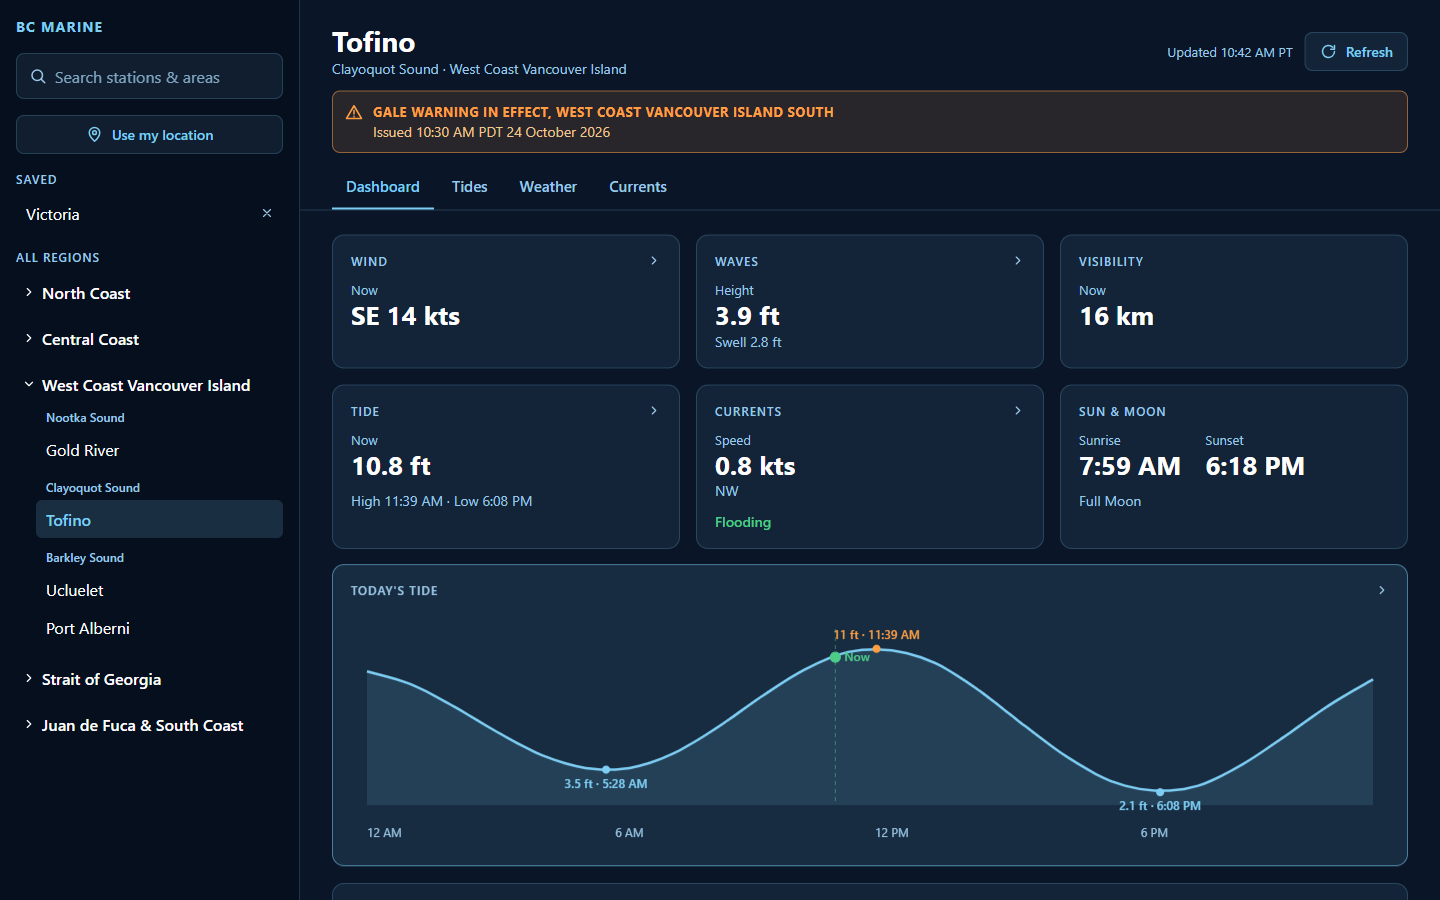
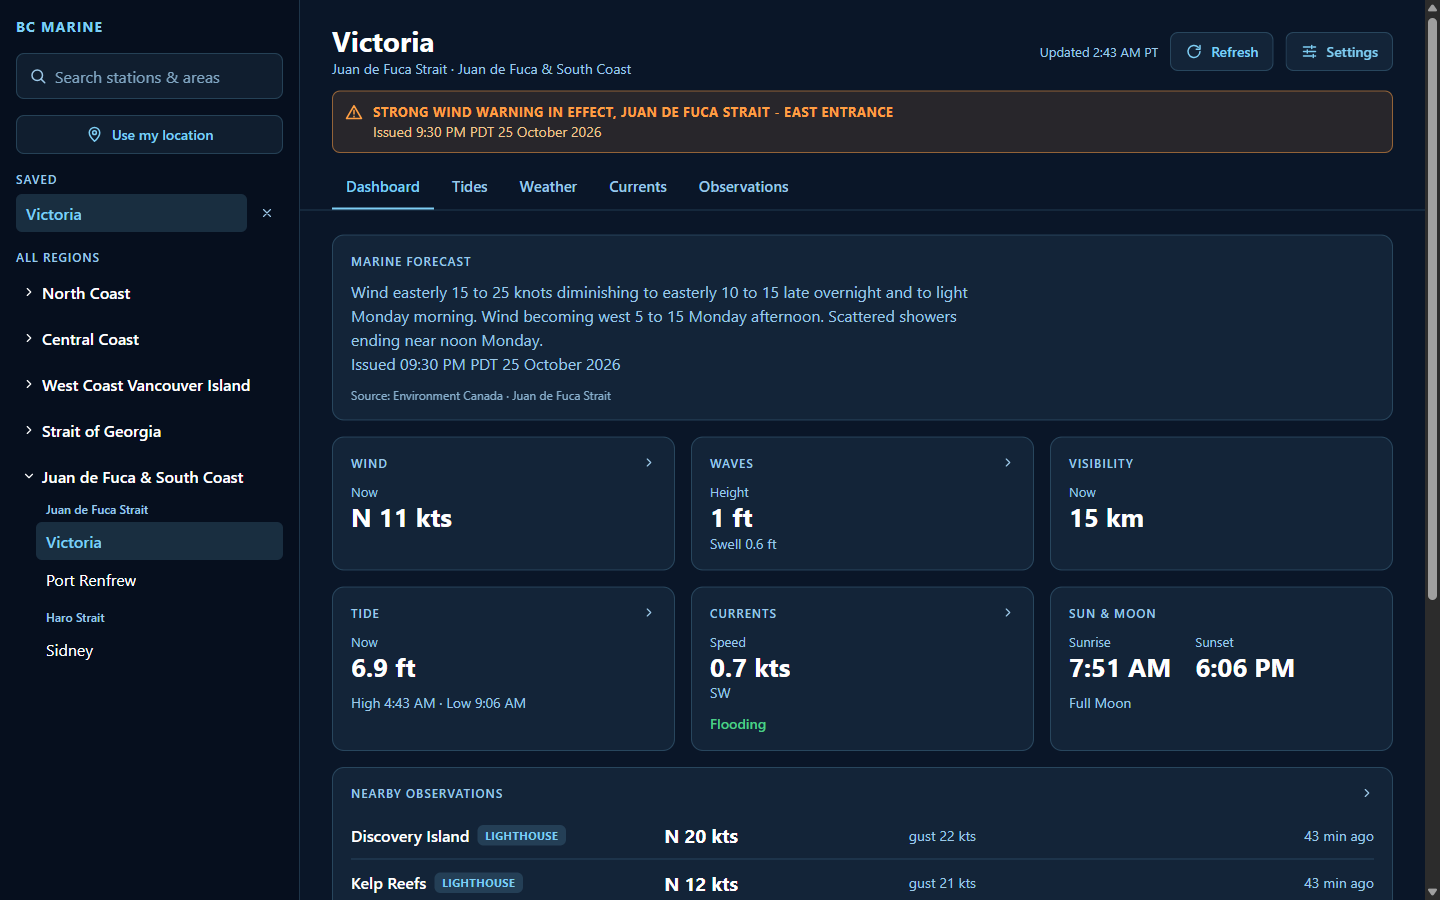
docs: fresh web screenshots and up-to-date mobile run instructions
New screenshots from the live site: desktop dark and light, a buoy page
with its 12-hour charts, and the phone browser. Mobile instructions now
cover Expo Go SDK 58, clearing the cache after pulling, tunnel mode,
precise location, and the current file layout.

diff --git a/apps/mobile/README.md b/apps/mobile/README.md
@@ -2,24 +2,43 @@
 
 Expo / React Native app for iOS and Android. It shares its data layer with the web app through [`@bc-marine/shared`](../../packages/shared).
 
-## Quick start
+## Run it on your phone
 
-1. Install the Expo Go app on your phone.
-2. From the repo root:
+1. Install **Expo Go** from the App Store or Google Play. Make sure it's up to date: this app uses **Expo SDK 58**, and an older Expo Go says the project is incompatible.
+2. Connect your phone to the same Wi-Fi as your computer.
+3. From the repo root:
 
    ```bash
    npm install
    npm start --workspace bc-marine-mobile
    ```
 
-3. Scan the QR code with Expo Go (Android) or the Camera app (iOS). If your phone is on a different network, run `npx expo start --tunnel` from this folder instead.
+4. Scan the QR code in the terminal: on Android with Expo Go's **Scan QR code**, on iPhone with the **Camera** app.
+
+### Tips
+
+- **After pulling new changes**, start with a cleared cache so the phone gets the new code:
+
+  ```bash
+  npm start --workspace bc-marine-mobile -- --clear
+  ```
+
+- **Phone on a different network, or the QR code won't connect?** Use tunnel mode. The first time, Expo may ask to install a tunnel helper; say yes.
+
+  ```bash
+  npm start --workspace bc-marine-mobile -- --tunnel
+  ```
+
+- **Use my location:** allow location for Expo Go and turn on **Precise location**. Without it, the phone only roughly knows where you are, and the app asks before switching stations.
+- In the terminal, press `r` to reload the app on your phone, and `Ctrl+C` to stop.
 
 ## Layout
 
-- `App.js`: navigation (tabs and stack)
-- `src/context/AppContext.js`: app state; data comes from `loadStationData` in the shared package
-- `src/screens/`: dashboard, tide, weather, currents and locations screens
-- `src/components/`: tide curve, warning banner, cards
-- `src/theme.js`: colours
+- `App.js`: navigation (tabs and stack) and the light/dark theme
+- `src/context/AppContext.js`: app state (station, data, units, theme, opening station); data comes from `loadStationData` in the shared package
+- `src/context/useSavedSites.js`: saved lighthouses and buoys
+- `src/screens/`: dashboard, tides, weather, currents, observations, lighthouse/buoy page and locations
+- `src/components/`: settings panel, units picker, tide curve, lighthouse/buoy charts, warning banner, cards
+- `src/theme.js`: light and dark colours; `useColors()` and `makeStyles()` make every screen follow the theme
 
 This app started as a course project; `instructions.md`, `plan.md` and `reflection.md` are the original assignment brief, plan and reflection.

diff --git a/README.md b/README.md
@@ -10,11 +10,19 @@ Live tides, wind, waves, currents and Environment Canada marine forecasts for th
 
 ### Web (desktop)
 
-![BC Marine web dashboard for Tofino, showing wind, waves, tide, currents and today's tide curve](docs/screenshots/web-dashboard.png)
+![BC Marine web dashboard for Victoria with a strong wind warning, the marine forecast, wind, waves, visibility, tide, currents and nearby lighthouse readings](docs/screenshots/web-dashboard.png)
+
+The theme follows your device (light or dark), or can be set in Settings:
+
+![The same dashboard in the light theme](docs/screenshots/web-dashboard-light.png)
+
+Each lighthouse and buoy has its own page with 12-hour charts:
+
+![Halibut Bank buoy page with its latest readings and 12-hour charts of wind and gusts, wave height and pressure](docs/screenshots/web-buoy-charts.png)
 
 ### Web (phone browser)
 
-<img src="docs/screenshots/web-mobile.png" alt="BC Marine tides view on a phone-sized screen" width="320" />
+<img src="docs/screenshots/web-mobile.png" alt="BC Marine dashboard for Victoria on a phone-sized screen, with a strong wind warning and the marine forecast" width="320" />
 
 ### Mobile app (Expo)
 
@@ -84,12 +92,27 @@ Requires [Node.js](https://nodejs.org/) 20 or newer.
 git clone https://github.com/Cory71/bc-marine.git
 cd bc-marine
 npm install                              # installs every workspace
-
-npm run dev --workspace bc-marine-web    # web app at http://localhost:5173
-npm start --workspace bc-marine-mobile   # mobile app: scan the QR code with Expo Go
 ```
 
-See [apps/web/README.md](apps/web/README.md) and [apps/mobile/README.md](apps/mobile/README.md) for more.
+### Web app
+
+```bash
+npm run dev --workspace bc-marine-web    # opens at http://localhost:5173
+```
+
+### Mobile app (on your phone, with Expo Go)
+
+1. Install **Expo Go** from the App Store or Google Play, and make sure it's up to date (the app uses Expo SDK 58).
+2. Connect your phone to the same Wi-Fi as your computer.
+3. Start the app, then scan the QR code: on Android with Expo Go's **Scan QR code**, on iPhone with the **Camera** app.
+
+```bash
+npm start --workspace bc-marine-mobile
+npm start --workspace bc-marine-mobile -- --clear    # after pulling new changes
+npm start --workspace bc-marine-mobile -- --tunnel   # if the phone is on a different network
+```
+
+For **Use my location**, turn on **Precise location** for Expo Go. More tips are in [apps/mobile/README.md](apps/mobile/README.md); the web app's notes are in [apps/web/README.md](apps/web/README.md).
 
 ## Testing and CI
 
